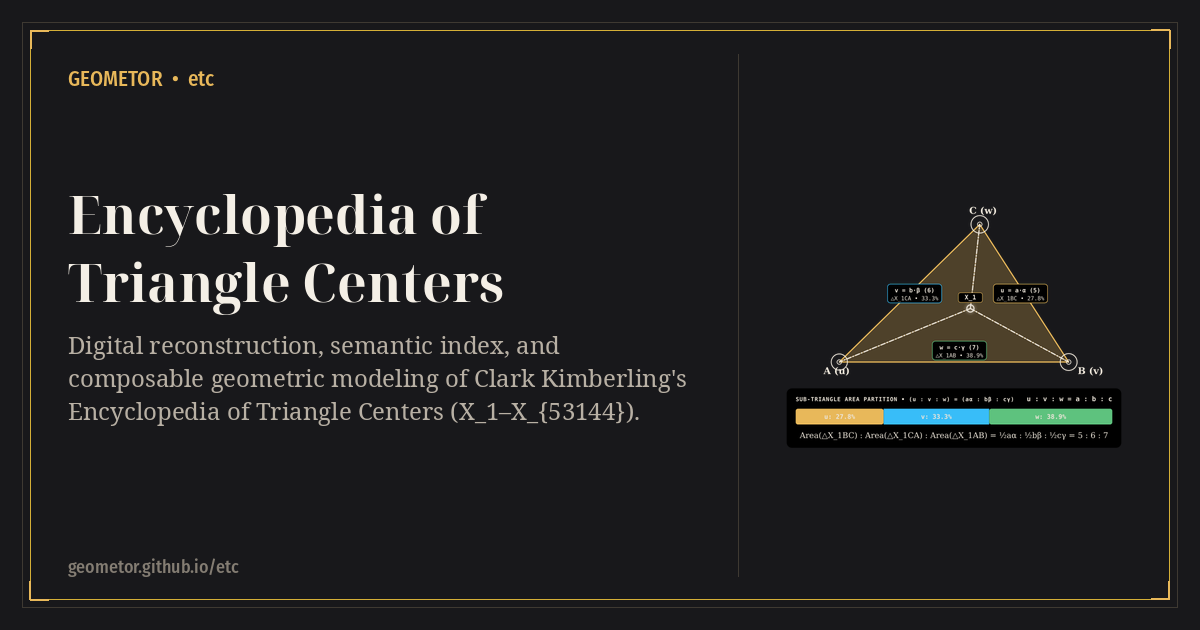
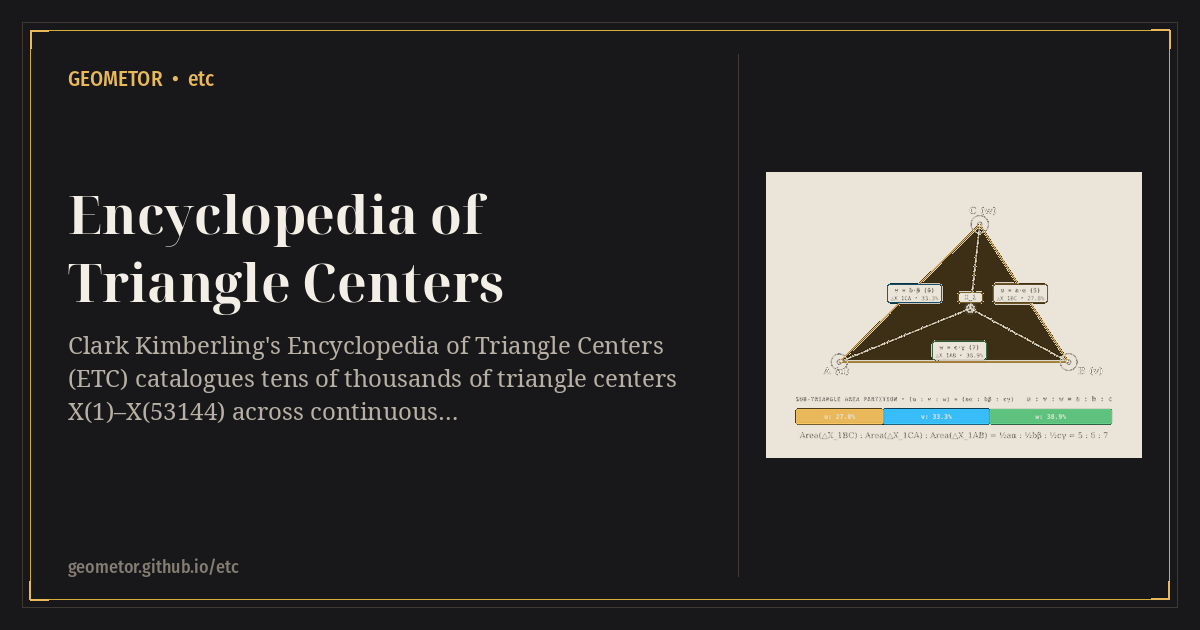
docs: add construction hero images, elevate English titles with native title tracks, and standardize track menus

Changed region(s): [[0.6167, 0.2714, 0.9558, 0.754], [0.0617, 0.5127, 0.5858, 0.6937]]

diff --git a/README.rst b/README.rst
@@ -3,6 +3,11 @@ GEOMETOR • etc
 
 **Visit the Online Archive:** https://geometor.github.io/etc/
 
+.. image:: docsrc/_static/coordinates/barycentric_picture.svg
+   :alt: GEOMETOR • etc featured geometric construction
+   :target: https://geometor.github.io/etc/
+   :align: center
+
 **Encyclopedia of Triangle Centers • Clark Kimberling's X(1)–X(53144) • semantic digital archive**
 
 Mission
